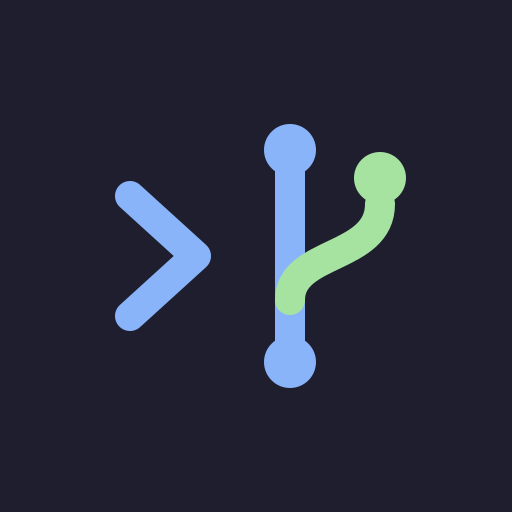
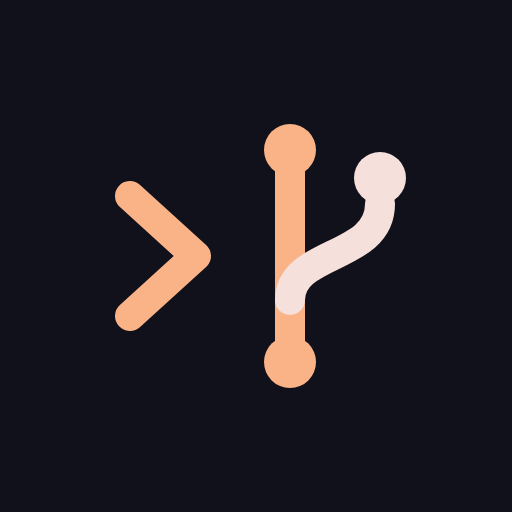
Switch UI to Catppuccin Mocha Peach theme

Changed region(s): [[0.5, 0.2188, 0.8125, 0.7812], [0.2188, 0.3438, 0.4062, 0.6562]]

diff --git a/assets/style.css b/assets/style.css
@@ -1,26 +1,18 @@
-/* git-mirror — Forgejo/Codeberg-style static UI. System fonts, no frameworks, no webfonts. */
+/* git-mirror — Forgejo/Codeberg-style static UI. Catppuccin Mocha Peach. System fonts, no frameworks, no webfonts. */
 :root {
-  color-scheme: light dark;
-  --bg:#fff; --bg2:#f6f7f9; --bg3:#eceff3; --bd:#d8dde4; --tx:#1d2127; --mu:#656d78;
-  --ac:#2167c9; --acbg:#e8f0fc; --pri:#2167c9; --prih:#1a56a8; --on:#fff;
-  --ok:#1a7f37; --bad:#cf222e; --warn:#9a6700;
-  --addbg:#e6f6ea; --addn:#cdecd5; --delbg:#fdebec; --deln:#f9d3d6; --hk:#eaf2fd;
-  --sel:#fff6c4;
-  --c-c:#6a737d; --c-k:#cf222e; --c-s:#0a3069; --c-n:#0550ae; --c-f:#8250df; --c-t:#953800; --c-b:#0550ae;
+  color-scheme: dark;
+  accent-color: #fab387;
+  /* Catppuccin Mocha, peach accent: values from catppuccin/gitea theme-catppuccin-mocha-peach */
+  --bg:#11111b; --bg2:#181825; --bg3:#313244; --bd:#45475a; --tx:#cdd6f4; --mu:#a6adc8;
+  --ac:#fab387; --acbg:rgba(250,179,135,.15); --pri:#fab387; --prih:#f9a36f; --on:#11111b;
+  --ok:#a6e3a1; --bad:#f38ba8; --warn:#f9e2af; --codebg:#1e1e2e;
+  --addbg:rgba(166,227,161,.07); --addn:rgba(166,227,161,.15); --delbg:rgba(243,139,168,.07); --deln:rgba(243,139,168,.15); --hk:rgba(137,180,250,.1);
+  --sel:rgba(249,226,175,.15);
   --mono:ui-monospace,SFMono-Regular,"SF Mono",Menlo,Consolas,"Liberation Mono",monospace;
   --sans:system-ui,-apple-system,"Segoe UI",Roboto,"Helvetica Neue",Arial,"Noto Sans",sans-serif;
   --r:6px; --nav:52px;
 }
-@media (prefers-color-scheme: dark) {
-  :root {
-    --bg:#1a1c1f; --bg2:#212428; --bg3:#2a2e33; --bd:#363b42; --tx:#dfe3e8; --mu:#9aa3ad;
-    --ac:#6cb0ff; --acbg:#1e2d42; --pri:#2f7fe0; --prih:#4a93ee; --on:#fff;
-    --ok:#3fb950; --bad:#ff7b72; --warn:#d29922;
-    --addbg:#16301f; --addn:#1d4129; --delbg:#3a1d21; --deln:#4d262b; --hk:#1f2c3f;
-    --sel:#3a3417;
-    --c-c:#8b949e; --c-k:#ff7b72; --c-s:#a5d6ff; --c-n:#79c0ff; --c-f:#d2a8ff; --c-t:#ffa657; --c-b:#79c0ff;
-  }
-}
+::selection { background: rgba(250,179,135,.3); }
 @view-transition { navigation: auto; }
 ::view-transition-old(root), ::view-transition-new(root) { animation-duration: .14s; }
 @media (prefers-reduced-motion: reduce) { ::view-transition-group(*), ::view-transition-old(*), ::view-transition-new(*) { animation: none !important; } }
@@ -89,7 +81,7 @@ html.loading::before { content: ""; position: fixed; z-index: 100; inset: 0 auto
 .sec em { font-style: normal; font-size: 12px; color: var(--mu); background: var(--bg3); border-radius: 999px; padding: 1px 8px; margin-left: 6px; vertical-align: 2px; font-weight: 500; }
 .empty { padding: 22px; text-align: center; color: var(--mu); }
 .empty.big { padding: 80px 16px; } .empty.big h1 { font-size: 48px; margin-bottom: 10px; }
-.av { display: inline-flex; align-items: center; justify-content: center; width: 20px; height: 20px; flex: none; border-radius: 50%; font-size: 11px; font-weight: 700; color: #fff; background: hsl(var(--h) 45% 42%); }
+.av { display: inline-flex; align-items: center; justify-content: center; width: 20px; height: 20px; flex: none; border-radius: 50%; font-size: 11px; font-weight: 700; color: #11111b; background: hsl(var(--h) 70% 75%); }
 
 /* ── home ── */
 .prof { display: flex; gap: 16px; padding: 16px; margin-top: 18px; align-items: flex-start; }
@@ -217,7 +209,7 @@ a.sha:hover { color: var(--ac); text-decoration: none; }
 .md blockquote { border-left: 4px solid var(--bd); padding: 0 1em; color: var(--mu); }
 .md hr { border: 0; border-top: 1px solid var(--bd); margin: 1.4em 0; }
 .md code { background: var(--bg3); border-radius: 4px; padding: .15em .4em; font-size: 85%; overflow-wrap: anywhere; }
-.md pre { background: var(--bg2); border: 1px solid var(--bd); border-radius: var(--r); padding: 12px 14px; overflow-x: auto; max-width: 100%; }
+.md pre { background: var(--codebg); border: 1px solid var(--bd); border-radius: var(--r); padding: 12px 14px; overflow-x: auto; max-width: 100%; }
 .md pre code { background: none; padding: 0; font-size: 13px; overflow-wrap: normal; white-space: pre; }
 .md .tbl { overflow-x: auto; max-width: 100%; }
 .md table { border-collapse: collapse; } .md th, .md td { border: 1px solid var(--bd); padding: 6px 12px; } .md th { background: var(--bg2); }
@@ -238,24 +230,28 @@ pre:not(.ln):not(.code):not(.cbody) { white-space: pre-wrap; }
 .blob:not(.md-on) .mdview { display: none; } .blob.md-on .codebox { display: none; }
 .notice { padding: 28px 16px; text-align: center; color: var(--mu); }
 .imgview { padding: 16px; text-align: center; background: repeating-conic-gradient(var(--bg2) 0 25%, var(--bg) 0 50%) 0 0 / 16px 16px; } .imgview img { max-width: 100%; height: auto; }
-.codebox { display: flex; overflow: auto; max-width: 100%; font: 12.5px/20px var(--mono); tab-size: 4; -webkit-overflow-scrolling: touch; }
+.codebox { background: var(--codebg); display: flex; overflow: auto; max-width: 100%; font: 12.5px/20px var(--mono); tab-size: 4; -webkit-overflow-scrolling: touch; }
 .codebox pre { margin: 0; font: inherit; }
-.codebox .ln { position: sticky; left: 0; z-index: 1; flex: none; text-align: right; padding: 8px 10px 8px 12px; background: var(--bg); border-right: 1px solid var(--bd); user-select: none; -webkit-user-select: none; }
+.codebox .ln { position: sticky; left: 0; z-index: 1; flex: none; text-align: right; padding: 8px 10px 8px 12px; background: var(--codebg); border-right: 1px solid var(--bd); user-select: none; -webkit-user-select: none; }
 .codebox .ln a { color: var(--mu); display: block; line-height: 20px; }
 .codebox .ln a:hover { color: var(--ac); text-decoration: none; }
 .codebox .code { flex: 1 0 auto; padding: 8px 16px 8px 12px; min-width: 0; white-space: pre; color: var(--tx); }
 .codebox code { font: inherit; }
 .codebox .ln a.hl { background: var(--sel); color: var(--tx); }
 .codebox .code span.hl { background: var(--sel); display: inline-block; min-width: 100%; }
-.code [class^="t-c"] { color: var(--c-c); font-style: italic; }
-.code .t-cp, .code .t-cpf { color: var(--c-t); font-style: normal; } .code .t-cpf { color: var(--c-s); }
-.code [class^="t-k"] { color: var(--c-k); }
-.code [class^="t-s"] { color: var(--c-s); } .code .t-sd { color: var(--c-c); }
-.code [class^="t-m"], .code .t-il { color: var(--c-n); }
-.code .t-nf, .code .t-fm, .code .t-nc, .code .t-nn, .code .t-nd, .code .t-ne { color: var(--c-f); }
-.code .t-nb, .code .t-bp, .code .t-no { color: var(--c-b); }
-.code .t-nt, .code .t-na { color: var(--c-t); } .code .t-nv, .code .t-vi, .code .t-vg, .code .t-vc { color: var(--c-b); }
-.code .t-o, .code .t-ow { color: var(--c-k); } .code .t-gd { color: var(--bad); } .code .t-gi { color: var(--ok); }
+.code .t-c, .code .t-c1, .code .t-ch, .code .t-cm, .code .t-cs { color: #6c7086; }
+.code .t-cp, .code .t-cpf, .code .t-dl, .code .t-nf, .code .t-fm, .code .t-se, .code .t-sr { color: #89b4fa; }
+.code .t-k, .code .t-kd, .code .t-kp, .code .t-kr, .code .t-nt { color: #cba6f7; }
+.code .t-kc, .code .t-kn, .code .t-kt, .code .t-na, .code .t-nc, .code .t-nl, .code .t-nn, .code .t-no, .code .t-vc, .code .t-vi { color: #f9e2af; }
+.code .t-s, .code .t-s1, .code .t-s2, .code .t-sa, .code .t-sb, .code .t-sc, .code .t-sd, .code .t-sh, .code .t-si, .code .t-ss, .code .t-sx { color: #a6e3a1; }
+.code .t-bp, .code .t-nb, .code .t-nv, .code .t-nx, .code .t-vg, .code .t-il, .code .t-m, .code .t-mb, .code .t-mf, .code .t-mh, .code .t-mi, .code .t-mo, .code .t-go { color: #fab387; }
+.code .t-n { color: #b4befe; }
+.code .t-nd, .code .t-ni { color: #f5c2e7; }
+.code .t-ne, .code .t-gr, .code .t-gt { color: #eba0ac; }
+.code .t-o, .code .t-ow, .code .t-gh, .code .t-gu { color: #89dceb; }
+.code .t-p { color: #9399b2; }
+.code .t-gd { color: #f38ba8; }
+.code .t-gi { color: #a6e3a1; }
 
 /* commits */
 .day { font-size: 13px; color: var(--mu); font-weight: 500; margin: 16px 0 8px; }
@@ -279,7 +275,7 @@ pre:not(.ln):not(.code):not(.cbody) { white-space: pre-wrap; }
 .dfile > header b { min-width: 0; overflow-wrap: anywhere; } .dfile .st { margin-left: auto; font-family: var(--mono); font-size: 12px; }
 .dnote { padding: 18px; text-align: center; color: var(--mu); }
 .dscroll { overflow-x: auto; max-width: 100%; }
-.dt { border-collapse: collapse; width: 100%; font: 12.5px/20px var(--mono); }
+.dt { background: var(--codebg); border-collapse: collapse; width: 100%; font: 12.5px/20px var(--mono); }
 .dt td { padding: 0; vertical-align: top; }
 .dt .n { width: 1%; min-width: 42px; padding: 0 8px; text-align: right; color: var(--mu); user-select: none; -webkit-user-select: none; background: var(--bg2); border-right: 1px solid var(--bd); }
 .dt .c { white-space: pre; padding: 0 12px; }

diff --git a/build.py b/build.py
@@ -367,9 +367,8 @@ def layout(title, main, *, path="/", desc="", cls="", noindex=False):
 <meta name="viewport" content="width=device-width,initial-scale=1,viewport-fit=cover">
 <title>{full_title}</title>
 <meta name="description" content="{desc}">
-<meta name="color-scheme" content="light dark">
-<meta name="theme-color" content="#ffffff" media="(prefers-color-scheme: light)">
-<meta name="theme-color" content="#1a1c1f" media="(prefers-color-scheme: dark)">
+<meta name="color-scheme" content="dark">
+<meta name="theme-color" content="#181825">
 {'<meta name="robots" content="noindex">' if noindex else ''}
 <link rel="canonical" href="{esc(base + q(path))}">
 <link rel="icon" href="/favicon.png" type="image/png">

diff --git a/README.md b/README.md
@@ -34,7 +34,7 @@ The workflow (`.github/workflows/main.yml`) runs on every push, hourly, on manua
 
 ## Front end
 
-* Light and dark themes follow the system. System fonts only, no frameworks, about 20 KB of CSS and 12 KB of JS.
+* Catppuccin Mocha theme with the peach accent. System fonts only, no frameworks, about 20 KB of CSS and 12 KB of JS.
 * **Instant navigation.** Internal links are prefetched aggressively (everything near the viewport, the rest of
   the page shortly after, and on hover or touch), and clicks swap the page content in memory, so navigation
   feels like a single-page app while staying plain static HTML. Back/forward, scroll restoration, open in new
